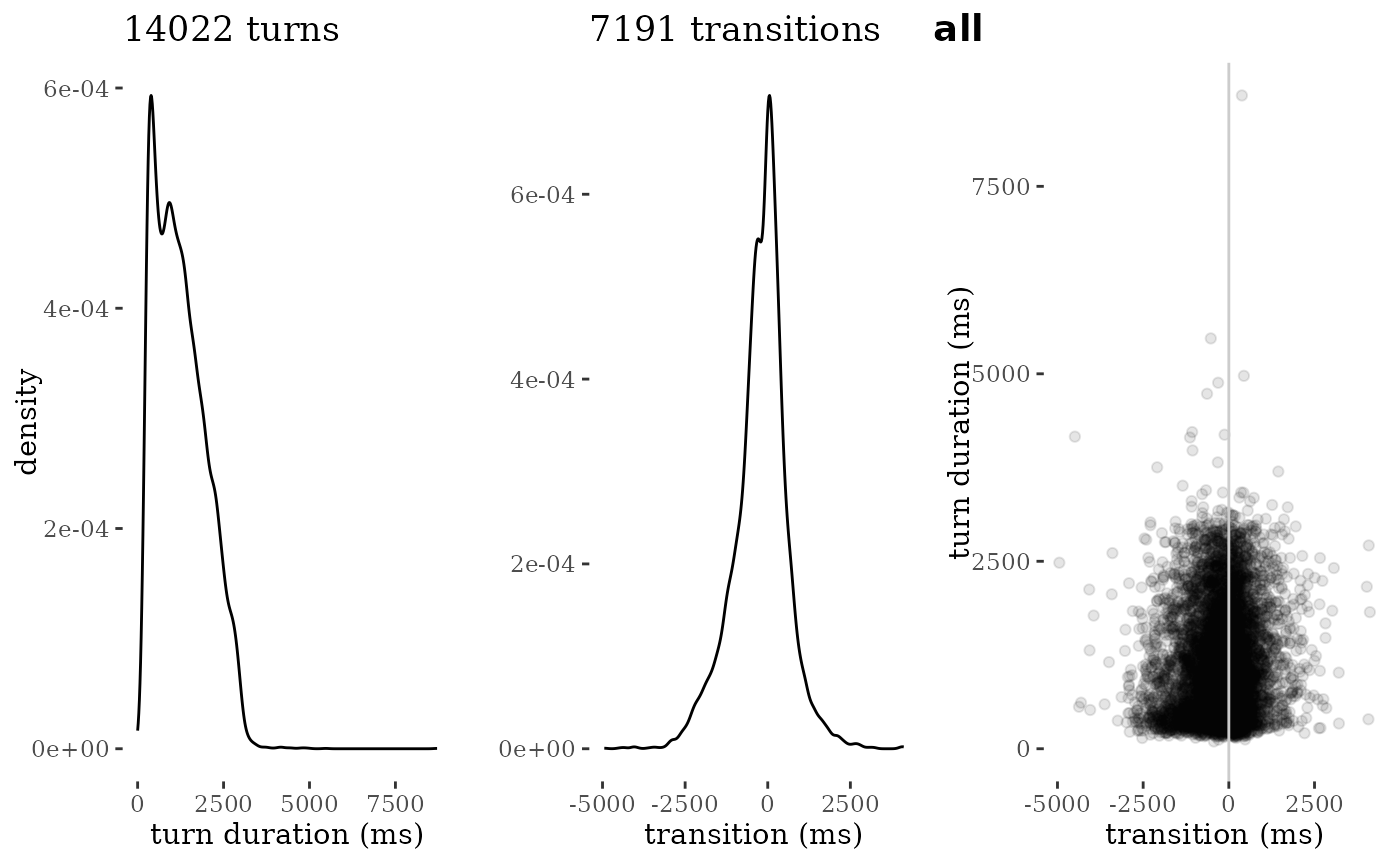
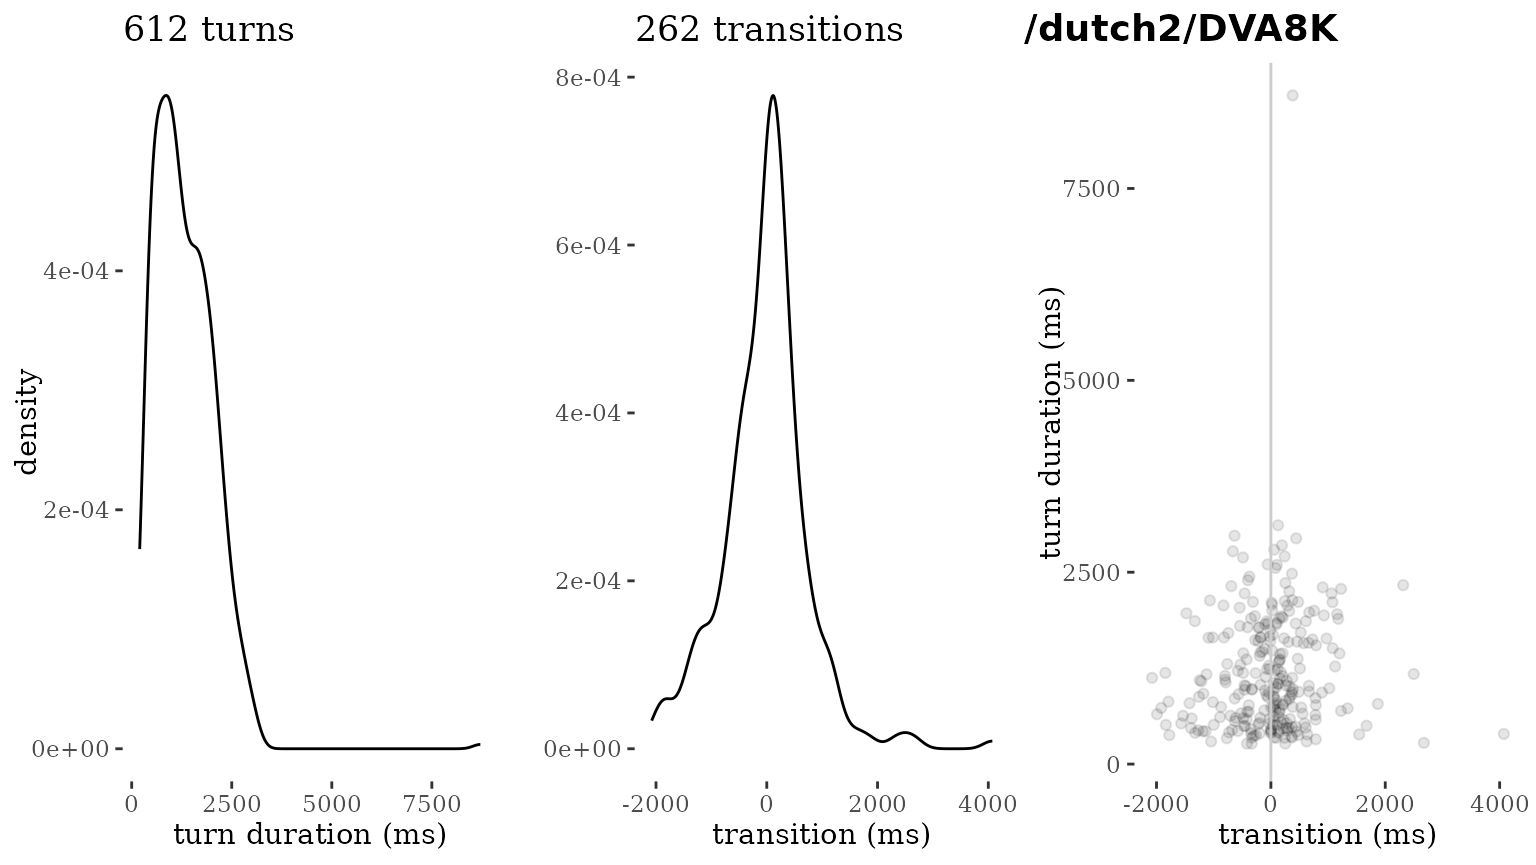
Deploying to gh-pages from @ elpaco-escience/talkr@bbe3f101fcc90434111b4c7cabe706b6eca5415a 🚀

diff --git a/articles/workflow.html b/articles/workflow.html
@@ -67,32 +67,56 @@
 <div class="sourceCode" id="cb1"><pre class="downlit sourceCode r">
 <code class="sourceCode R"><span><span class="kw"><a href="https://rdrr.io/r/base/library.html" class="external-link">library</a></span><span class="op">(</span><span class="va">talkr</span><span class="op">)</span></span></code></pre></div>
 <div class="section level2">
-<h2 id="data">Data<a class="anchor" aria-label="anchor" href="#data"></a>
+<h2 id="loading-the-data">Loading the data<a class="anchor" aria-label="anchor" href="#loading-the-data"></a>
 </h2>
 <p>We will be using the IFADV corpus as example data for the workflow of
-<code>talkr</code>. The snippet below initializes the talkr dataset
-using the ifadv data.</p>
-<p>For more information about the IFADV dataset, see the <a href="https://github.com/elpaco-escience/ifadv" class="external-link">repository link</a>.</p>
+<code>talkr</code>. This is a corpus consisting of 20 dyadic
+conversations in Dutch, published by the Nederlandse Taalunie in 2007
+(<a href="https://fon.hum.uva.nl/IFA-SpokenLanguageCorpora/IFADVcorpus/" class="external-link">source</a>)</p>
+<p>The snippet below initializes the talkr dataset using the ifadv data.
+For more information about the IFADV dataset, see the <a href="https://github.com/elpaco-escience/ifadv" class="external-link">repository link</a>.</p>
 <div class="sourceCode" id="cb2"><pre class="downlit sourceCode r">
 <code class="sourceCode R"><span><span class="va">data</span> <span class="op">&lt;-</span> <span class="fu"><a href="../reference/init.html">init</a></span><span class="op">(</span><span class="fu">ifadv</span><span class="fu">::</span><span class="va"><a href="https://rdrr.io/pkg/ifadv/man/ifadv.html" class="external-link">ifadv</a></span><span class="op">)</span></span>
 <span><span class="co">#&gt; Warning in init(ifadv::ifadv): Column 'uid' already exists in the dataset. This</span></span>
 <span><span class="co">#&gt; column will be renamed to `original_uid`.</span></span></code></pre></div>
-<p>For the <code>talkr</code> workflow, the columns named
-<code>source</code>, <code>begin</code>, <code>end</code>,
-<code>participant</code> and <code>utterance</code> are essential. The
-<code><a href="../reference/init.html">init()</a></code> function can be used to rename columns if necessary.
-For example, if the column <code>participant</code> is named
+<p>Essential to any <code>talkr</code> workflow is a minimal set of data
+fields. These are the following: * <code>source</code>: the source
+conversation (a corpus can consist of multiple sources) *
+<code>begin</code>: begin time (in ms) of an utterance *
+<code>end</code>: end time (in ms) of an utterance *
+<code>utterance</code>: content of an utterance *
+<code>participant</code>: the person who produced the utterance</p>
+<p>The <code><a href="../reference/init.html">init()</a></code> function takes these minimal fields and
+generates a few more based on them. These are: * <code>uid</code>: a
+unique identifier at utterance-level, used to identify, select and
+felter specific utterances * <code>duration</code>: the duration (in ms)
+of the utterance, generated by subtracting <code>begin</code> from
+<code>end</code></p>
+<p>The <code><a href="../reference/init.html">init()</a></code> function can be used to rename columns if
+necessary. For example, if the column <code>participant</code> is named
 <code>speaker</code>, we can rename it as follows:</p>
 <div class="sourceCode" id="cb3"><pre class="downlit sourceCode r">
 <code class="sourceCode R"><span><span class="va">talkr_data</span> <span class="op">&lt;-</span> <span class="fu"><a href="../reference/init.html">init</a></span><span class="op">(</span><span class="va">data</span>,</span>
 <span>             participant <span class="op">=</span> <span class="st">"speaker"</span><span class="op">)</span></span></code></pre></div>
+<p>A dataset can contain additional fields. For instance, the IFADV
+sample dataset also contain <code>language</code> (which is Dutch) and
+<code>utterance_raw</code> (a fuller, less processed version of the
+utterance content). It also contains measures related to turn-taking and
+timing, including <code>FTO</code> (floor transfer offset, the offset
+between current turn and that of a prior participant, in milliseconds)
+and <code>freq</code> and <code>rank</code>, frequency measures of the
+utterance content.</p>
 </div>
 <div class="section level2">
-<h2 id="summaries">Summaries<a class="anchor" aria-label="anchor" href="#summaries"></a>
+<h2 id="workflow-1-quality-control">Workflow 1: Quality control<a class="anchor" aria-label="anchor" href="#workflow-1-quality-control"></a>
 </h2>
-<p>The <code>report_summaries</code> function provides a summary of the
-data, including the total number of utterances, the total duration of
-the conversation, the number of speakers, and the number of sources.</p>
+<div class="section level3">
+<h3 id="summary-statistics">Summary statistics<a class="anchor" aria-label="anchor" href="#summary-statistics"></a>
+</h3>
+<p>The <code>report_stats</code> function provides a simple summary of a
+dataset, including the total number of utterances, the total duration of
+the conversation, the number of participants, and the number of
+sources.</p>
 <div class="sourceCode" id="cb4"><pre class="downlit sourceCode r">
 <code class="sourceCode R"><span><span class="fu"><a href="../reference/report_stats.html">report_stats</a></span><span class="op">(</span><span class="va">data</span><span class="op">)</span></span>
 <span><span class="co">#&gt; ### Corpus-level statistics </span></span>
@@ -157,49 +181,53 @@ the conversation, the number of speakers, and the number of sources.</p>
 <span><span class="co">#&gt; |/dutch2/DVA8K   |         612|                    1319|                200|              8712|           2448|</span></span>
 <span><span class="co">#&gt; |/dutch2/DVA9M   |         755|                    1062|                163|              2909|           3021|</span></span></code></pre></div>
 </div>
-<div class="section level2">
-<h2 id="visual-quality-checks">Visual quality checks<a class="anchor" aria-label="anchor" href="#visual-quality-checks"></a>
-</h2>
+<div class="section level3">
+<h3 id="visual-quality-checks">Visual quality checks<a class="anchor" aria-label="anchor" href="#visual-quality-checks"></a>
+</h3>
 <p>The <code>plot_quality</code> function provides a visual check of the
-quality of the data, by visualizing the distribution of turn duration,
+nature of the data, by visualizing the distribution of turn durations,
 and transition timing.</p>
 <p>Transition timing is similar to FTO, but calculated without
 additional quality checks: transitions are identified when the
 participant changes from one turn to the next. The transition time is
 then calculated as the difference between the beginning of the turn of
 the new participant, and the end of the turn of the previous one.</p>
-<p>By default, <code><a href="../reference/plot_quality.html">plot_quality()</a></code> will plot the quality of the
-entire dataset:</p>
+<p>By default, <code><a href="../reference/plot_quality.html">plot_quality()</a></code> will plot the entire
+dataset:</p>
 <div class="sourceCode" id="cb5"><pre class="downlit sourceCode r">
 <code class="sourceCode R"><span><span class="fu"><a href="../reference/plot_quality.html">plot_quality</a></span><span class="op">(</span><span class="va">data</span><span class="op">)</span></span></code></pre></div>
-<p><img src="workflow_files/figure-html/unnamed-chunk-4-1.png" width="700"></p>
+<p><img src="workflow_files/figure-html/unnamed-chunk-3-1.png" width="768"></p>
 <p>Quality plots can also be run for a specific source:</p>
 <div class="sourceCode" id="cb6"><pre class="downlit sourceCode r">
-<code class="sourceCode R"><span><span class="fu"><a href="../reference/plot_quality.html">plot_quality</a></span><span class="op">(</span><span class="va">data</span>, source <span class="op">=</span> <span class="st">"/dutch2/DVA9M"</span><span class="op">)</span></span></code></pre></div>
-<p><img src="workflow_files/figure-html/unnamed-chunk-5-1.png" width="700"></p>
+<code class="sourceCode R"><span><span class="fu"><a href="../reference/plot_quality.html">plot_quality</a></span><span class="op">(</span><span class="va">data</span>, source <span class="op">=</span> <span class="st">"/dutch2/DVA8K"</span><span class="op">)</span></span></code></pre></div>
+<p><img src="workflow_files/figure-html/unnamed-chunk-4-1.png" width="768"></p>
+<p>A quality plot consists of three separate visualizations, all
+designed to allow rapid visual inspection and spotting oddities: 1. A
+density plot of turn durations. This is normally expected to look like a
+distribution that has a peak around 2000ms (2 seconds) and maximum
+lengths that do not far exceed 10000ms (10 seconds) (Liesenfeld &amp;
+Dingemanse 2022). The goal of this plot is to allow eyeballing of
+oddities like turns of extreme durations or sets of turns with the exact
+same duration (unlikely in carefully segmented conversational data). 2.
+A density plot of turn transition times. A plot like this is expected to
+look like a normal distribution centered around 0-200ms (Stivers et
+al. 2009). Deviations from this may signal problems in the dataset, for
+instance due to imprecise or automated annotation methods. 3. A
+scatterplot of turn transition (x) by turn duration. This combines both
+distributions and is expected to look like a cloud of datapoints that is
+thickest in the middle region. Any standout patterns (for instance,
+turns whose duration is equal to their transition time) are indicative
+of problems in the segmentation or timing data.</p>
+</div>
 </div>
 <div class="section level2">
-<h2 id="plot-conversations">Plot conversations<a class="anchor" aria-label="anchor" href="#plot-conversations"></a>
+<h2 id="workflow-2-plot-conversations">Workflow 2: Plot conversations<a class="anchor" aria-label="anchor" href="#workflow-2-plot-conversations"></a>
 </h2>
-<p>Individual conversations can be plotted quickly using
-<code><a href="../reference/plot_turns_tokens.html">plot_turns_tokens()</a></code>. The default setting is to plot the
-first 60 seconds of the first source in the data, overlaying the 10 most
-frequent tokens.</p>
+<p>Another key use of <code>talkr</code> is to visualize conversational
+patterns. A first key way to do so is <code><a href="../reference/geom_turn.html">geom_turn()</a></code>, a
+ggplot2-compatible geom that visualizes the timing and duration of turns
+in a conversation.</p>
 <div class="sourceCode" id="cb7"><pre class="downlit sourceCode r">
-<code class="sourceCode R"><span><span class="fu"><a href="../reference/plot_turns_tokens.html">plot_turns_tokens</a></span><span class="op">(</span><span class="va">data</span><span class="op">)</span></span></code></pre></div>
-<p><img src="workflow_files/figure-html/unnamed-chunk-6-1.png" width="700"></p>
-<p>We can set other defaults; e.g. a specific source, a different time
-window, and a different number of tokens:</p>
-<div class="sourceCode" id="cb8"><pre class="downlit sourceCode r">
-<code class="sourceCode R"><span><span class="fu"><a href="../reference/plot_turns_tokens.html">plot_turns_tokens</a></span><span class="op">(</span><span class="va">data</span>, source <span class="op">=</span> <span class="st">"/dutch2/DVA9M"</span>,</span>
-<span>                  begin <span class="op">=</span> <span class="fl">120</span>,</span>
-<span>                  duration <span class="op">=</span> <span class="fl">120</span>,</span>
-<span>                  maxrank <span class="op">=</span> <span class="fl">20</span><span class="op">)</span></span></code></pre></div>
-<p><img src="workflow_files/figure-html/unnamed-chunk-7-1.png" width="700"></p>
-<p>For more control over the plot, two specific geometries are
-available: <code>geom_turn</code> and <code>geom_token</code>. In
-addition, there is a <code>talkr</code>-specific theme provided.</p>
-<div class="sourceCode" id="cb9"><pre class="downlit sourceCode r">
 <code class="sourceCode R"><span><span class="kw"><a href="https://rdrr.io/r/base/library.html" class="external-link">library</a></span><span class="op">(</span><span class="va"><a href="https://ggplot2.tidyverse.org" class="external-link">ggplot2</a></span><span class="op">)</span></span>
 <span></span>
 <span><span class="va">p</span> <span class="op">&lt;-</span> <span class="va">data</span> <span class="op">|&gt;</span></span>
@@ -214,10 +242,29 @@ addition, there is a <code>talkr</code>-specific theme provided.</p>
 <span>  <span class="fu"><a href="../reference/theme_turnPlot.html">theme_turnPlot</a></span><span class="op">(</span><span class="op">)</span></span>
 <span></span>
 <span><span class="va">p</span></span></code></pre></div>
-<p><img src="workflow_files/figure-html/unnamed-chunk-8-1.png" width="700"></p>
+<p><img src="workflow_files/figure-html/geom_turn_demo_1-1.png" width="768"></p>
+<p>two specific geometries are available: <code>geom_turn</code> and
+<code>geom_token</code>. In addition, there is a
+<code>talkr</code>-specific theme provided.</p>
+<div class="sourceCode" id="cb8"><pre class="downlit sourceCode r">
+<code class="sourceCode R"><span><span class="kw"><a href="https://rdrr.io/r/base/library.html" class="external-link">library</a></span><span class="op">(</span><span class="va"><a href="https://ggplot2.tidyverse.org" class="external-link">ggplot2</a></span><span class="op">)</span></span>
+<span></span>
+<span><span class="va">p</span> <span class="op">&lt;-</span> <span class="va">data</span> <span class="op">|&gt;</span></span>
+<span>  <span class="fu">dplyr</span><span class="fu">::</span><span class="fu"><a href="https://dplyr.tidyverse.org/reference/filter.html" class="external-link">filter</a></span><span class="op">(</span><span class="va">source</span> <span class="op">==</span> <span class="st">"/dutch2/DVA9M"</span><span class="op">)</span> <span class="op">|&gt;</span></span>
+<span>  <span class="fu">dplyr</span><span class="fu">::</span><span class="fu"><a href="https://dplyr.tidyverse.org/reference/filter.html" class="external-link">filter</a></span><span class="op">(</span><span class="va">end</span> <span class="op">&lt;</span> <span class="fl">60000</span><span class="op">)</span> <span class="op">|&gt;</span></span>
+<span>  <span class="fu"><a href="https://ggplot2.tidyverse.org/reference/ggplot.html" class="external-link">ggplot</a></span><span class="op">(</span><span class="fu"><a href="https://ggplot2.tidyverse.org/reference/aes.html" class="external-link">aes</a></span><span class="op">(</span>x <span class="op">=</span> <span class="va">end</span>, y <span class="op">=</span> <span class="va">participant</span><span class="op">)</span><span class="op">)</span> <span class="op">+</span></span>
+<span>  <span class="fu"><a href="../reference/geom_turn.html">geom_turn</a></span><span class="op">(</span><span class="fu"><a href="https://ggplot2.tidyverse.org/reference/aes.html" class="external-link">aes</a></span><span class="op">(</span></span>
+<span>    begin <span class="op">=</span> <span class="va">begin</span>,</span>
+<span>    end <span class="op">=</span> <span class="va">end</span><span class="op">)</span><span class="op">)</span> <span class="op">+</span></span>
+<span>  <span class="fu"><a href="https://ggplot2.tidyverse.org/reference/labs.html" class="external-link">xlab</a></span><span class="op">(</span><span class="st">"Time (ms)"</span><span class="op">)</span> <span class="op">+</span></span>
+<span>  <span class="fu"><a href="https://ggplot2.tidyverse.org/reference/labs.html" class="external-link">ylab</a></span><span class="op">(</span><span class="st">""</span><span class="op">)</span> <span class="op">+</span></span>
+<span>  <span class="fu"><a href="../reference/theme_turnPlot.html">theme_turnPlot</a></span><span class="op">(</span><span class="op">)</span></span>
+<span></span>
+<span><span class="va">p</span></span></code></pre></div>
+<p><img src="workflow_files/figure-html/unnamed-chunk-5-1.png" width="768"></p>
 <p>This plot can be overlayed with plotted occurrences of tokens.</p>
 <p>To do so, we first need to calculate the token frequencies:</p>
-<div class="sourceCode" id="cb10"><pre class="downlit sourceCode r">
+<div class="sourceCode" id="cb9"><pre class="downlit sourceCode r">
 <code class="sourceCode R"><span><span class="va">tokens</span> <span class="op">&lt;-</span> <span class="fu"><a href="../reference/tokenize.html">tokenize</a></span><span class="op">(</span><span class="va">data</span><span class="op">)</span></span>
 <span></span>
 <span><span class="va">tokens</span></span>
@@ -238,7 +285,7 @@ addition, there is a <code>talkr</code>-specific theme provided.</p>
 <p>Token frequencies are calculated over the entire dataset. For
 source-specific data, it is recommended to filter the source prior to
 tokenization:</p>
-<div class="sourceCode" id="cb11"><pre class="downlit sourceCode r">
+<div class="sourceCode" id="cb10"><pre class="downlit sourceCode r">
 <code class="sourceCode R"><span><span class="va">tokens</span> <span class="op">&lt;-</span> <span class="va">data</span> <span class="op">|&gt;</span></span>
 <span>  <span class="fu">dplyr</span><span class="fu">::</span><span class="fu"><a href="https://dplyr.tidyverse.org/reference/filter.html" class="external-link">filter</a></span><span class="op">(</span><span class="va">source</span> <span class="op">==</span> <span class="st">"/dutch2/DVA9M"</span><span class="op">)</span> <span class="op">|&gt;</span></span>
 <span>  <span class="fu"><a href="../reference/tokenize.html">tokenize</a></span><span class="op">(</span><span class="op">)</span></span>
@@ -261,19 +308,19 @@ tokenization:</p>
 <p>Before we plot the tokens over the turns, we need to select the
 tokens we want to plot (e.g. the top 10 ranked), and the time window
 they occur in:</p>
-<div class="sourceCode" id="cb12"><pre class="downlit sourceCode r">
+<div class="sourceCode" id="cb11"><pre class="downlit sourceCode r">
 <code class="sourceCode R"><span><span class="va">tokenselection</span> <span class="op">&lt;-</span> <span class="va">tokens</span> <span class="op">|&gt;</span></span>
 <span>  <span class="fu">dplyr</span><span class="fu">::</span><span class="fu"><a href="https://dplyr.tidyverse.org/reference/filter.html" class="external-link">filter</a></span><span class="op">(</span><span class="va">relative_time</span> <span class="op">&lt;</span> <span class="fl">60000</span><span class="op">)</span> <span class="op">|&gt;</span></span>
 <span>  <span class="fu">dplyr</span><span class="fu">::</span><span class="fu"><a href="https://dplyr.tidyverse.org/reference/filter.html" class="external-link">filter</a></span><span class="op">(</span><span class="va">rank</span> <span class="op">&lt;=</span> <span class="fl">10</span><span class="op">)</span></span></code></pre></div>
 <p>We can plot the tokens over the turns.</p>
-<div class="sourceCode" id="cb13"><pre class="downlit sourceCode r">
+<div class="sourceCode" id="cb12"><pre class="downlit sourceCode r">
 <code class="sourceCode R"><span><span class="va">p</span> <span class="op">+</span></span>
 <span><span class="fu"><a href="../reference/geom_token.html">geom_token</a></span><span class="op">(</span>data <span class="op">=</span> <span class="va">tokenselection</span>,</span>
 <span>           <span class="fu"><a href="https://ggplot2.tidyverse.org/reference/aes.html" class="external-link">aes</a></span><span class="op">(</span>x <span class="op">=</span> <span class="va">relative_time</span>,</span>
 <span>               y <span class="op">=</span> <span class="va">participant</span>,</span>
 <span>               color <span class="op">=</span> <span class="va">rank</span><span class="op">)</span><span class="op">)</span> <span class="op">+</span></span>
 <span>  <span class="fu">viridis</span><span class="fu">::</span><span class="fu"><a href="https://sjmgarnier.github.io/viridis/reference/scale_viridis.html" class="external-link">scale_color_viridis</a></span><span class="op">(</span>option <span class="op">=</span> <span class="st">"plasma"</span>, direction <span class="op">=</span> <span class="op">-</span><span class="fl">1</span>, begin <span class="op">=</span> <span class="fl">0.2</span>, end <span class="op">=</span> <span class="fl">0.8</span><span class="op">)</span></span></code></pre></div>
-<p><img src="workflow_files/figure-html/unnamed-chunk-12-1.png" width="700"></p>
+<p><img src="workflow_files/figure-html/unnamed-chunk-9-1.png" width="768"></p>
 </div>
   </main><aside class="col-md-3"><nav id="toc" aria-label="Table of contents"><h2>On this page</h2>
     </nav></aside>
